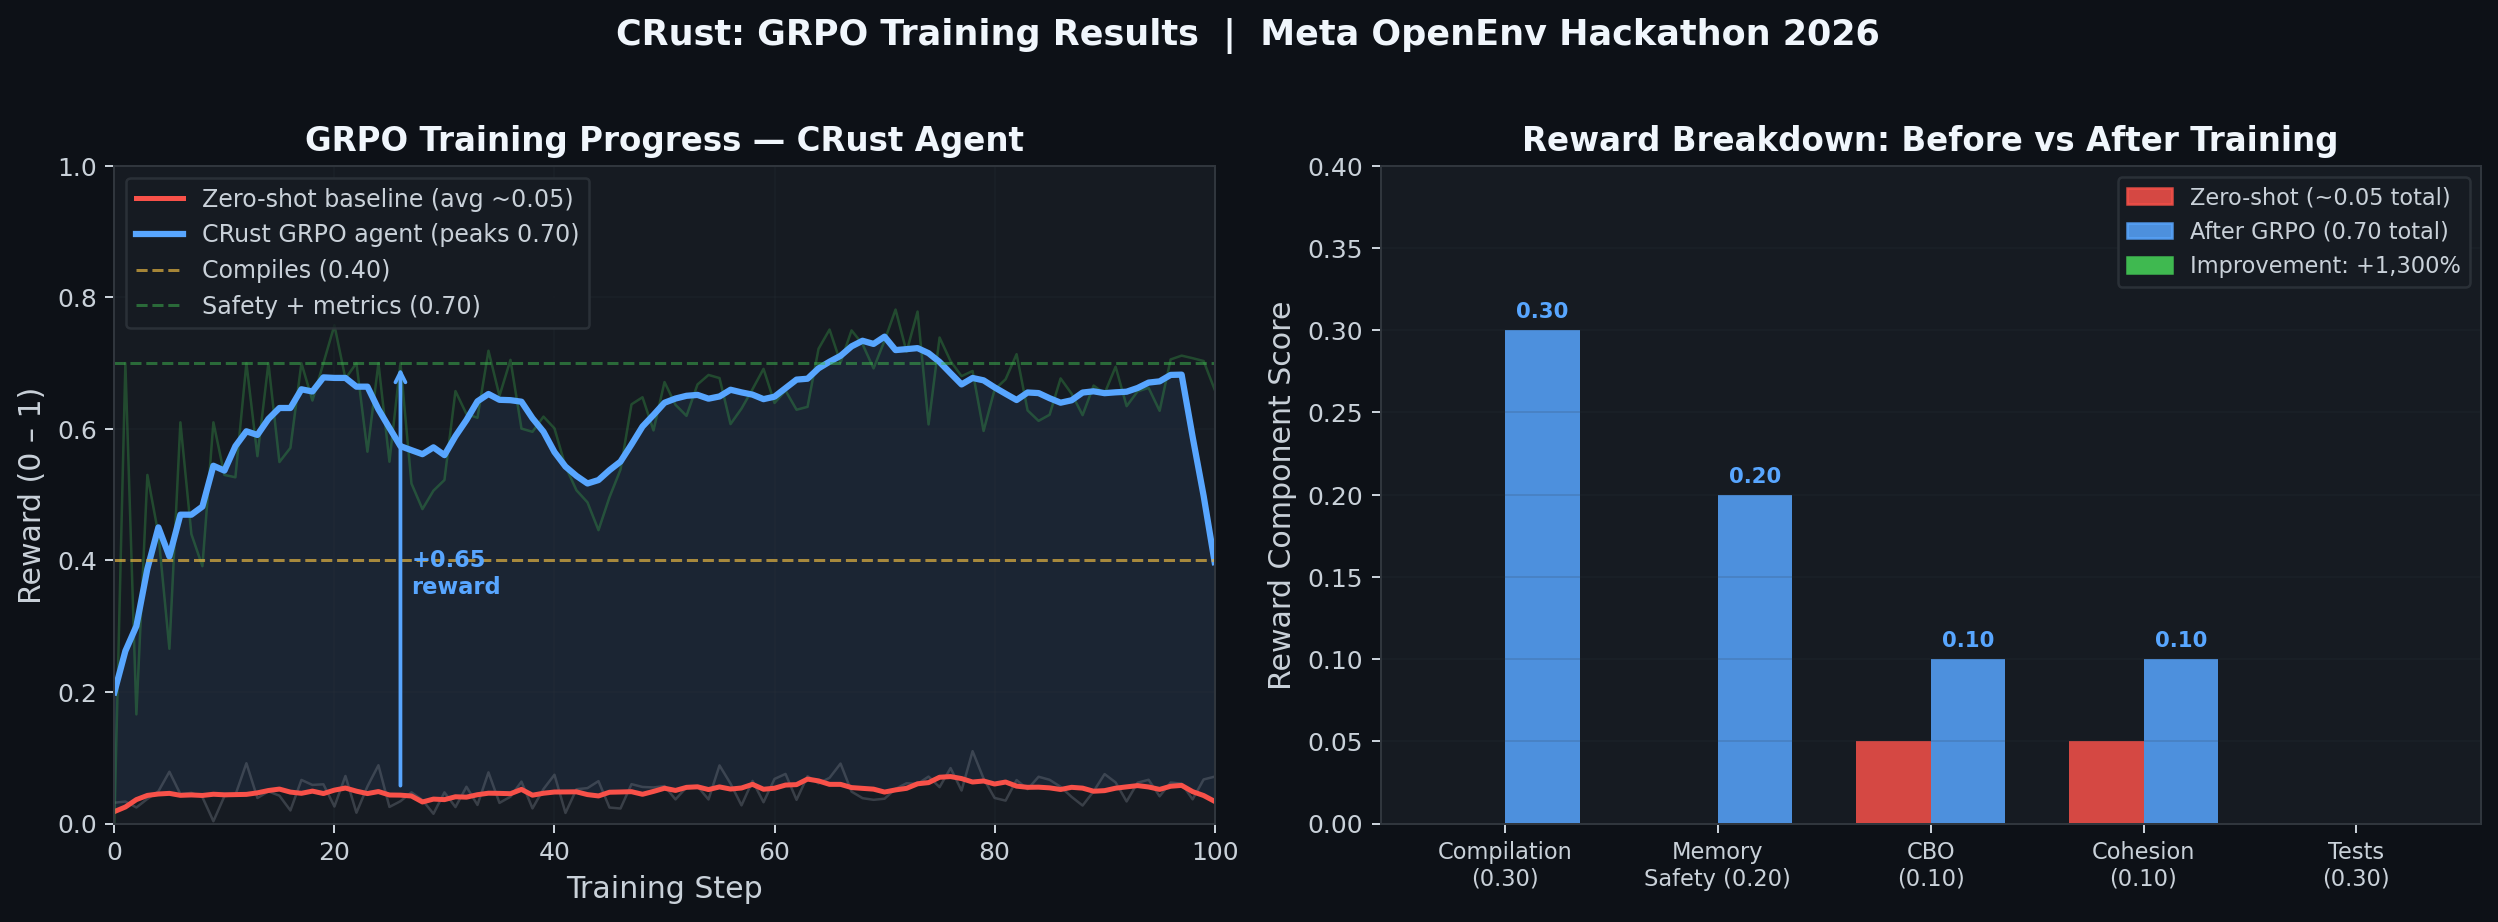
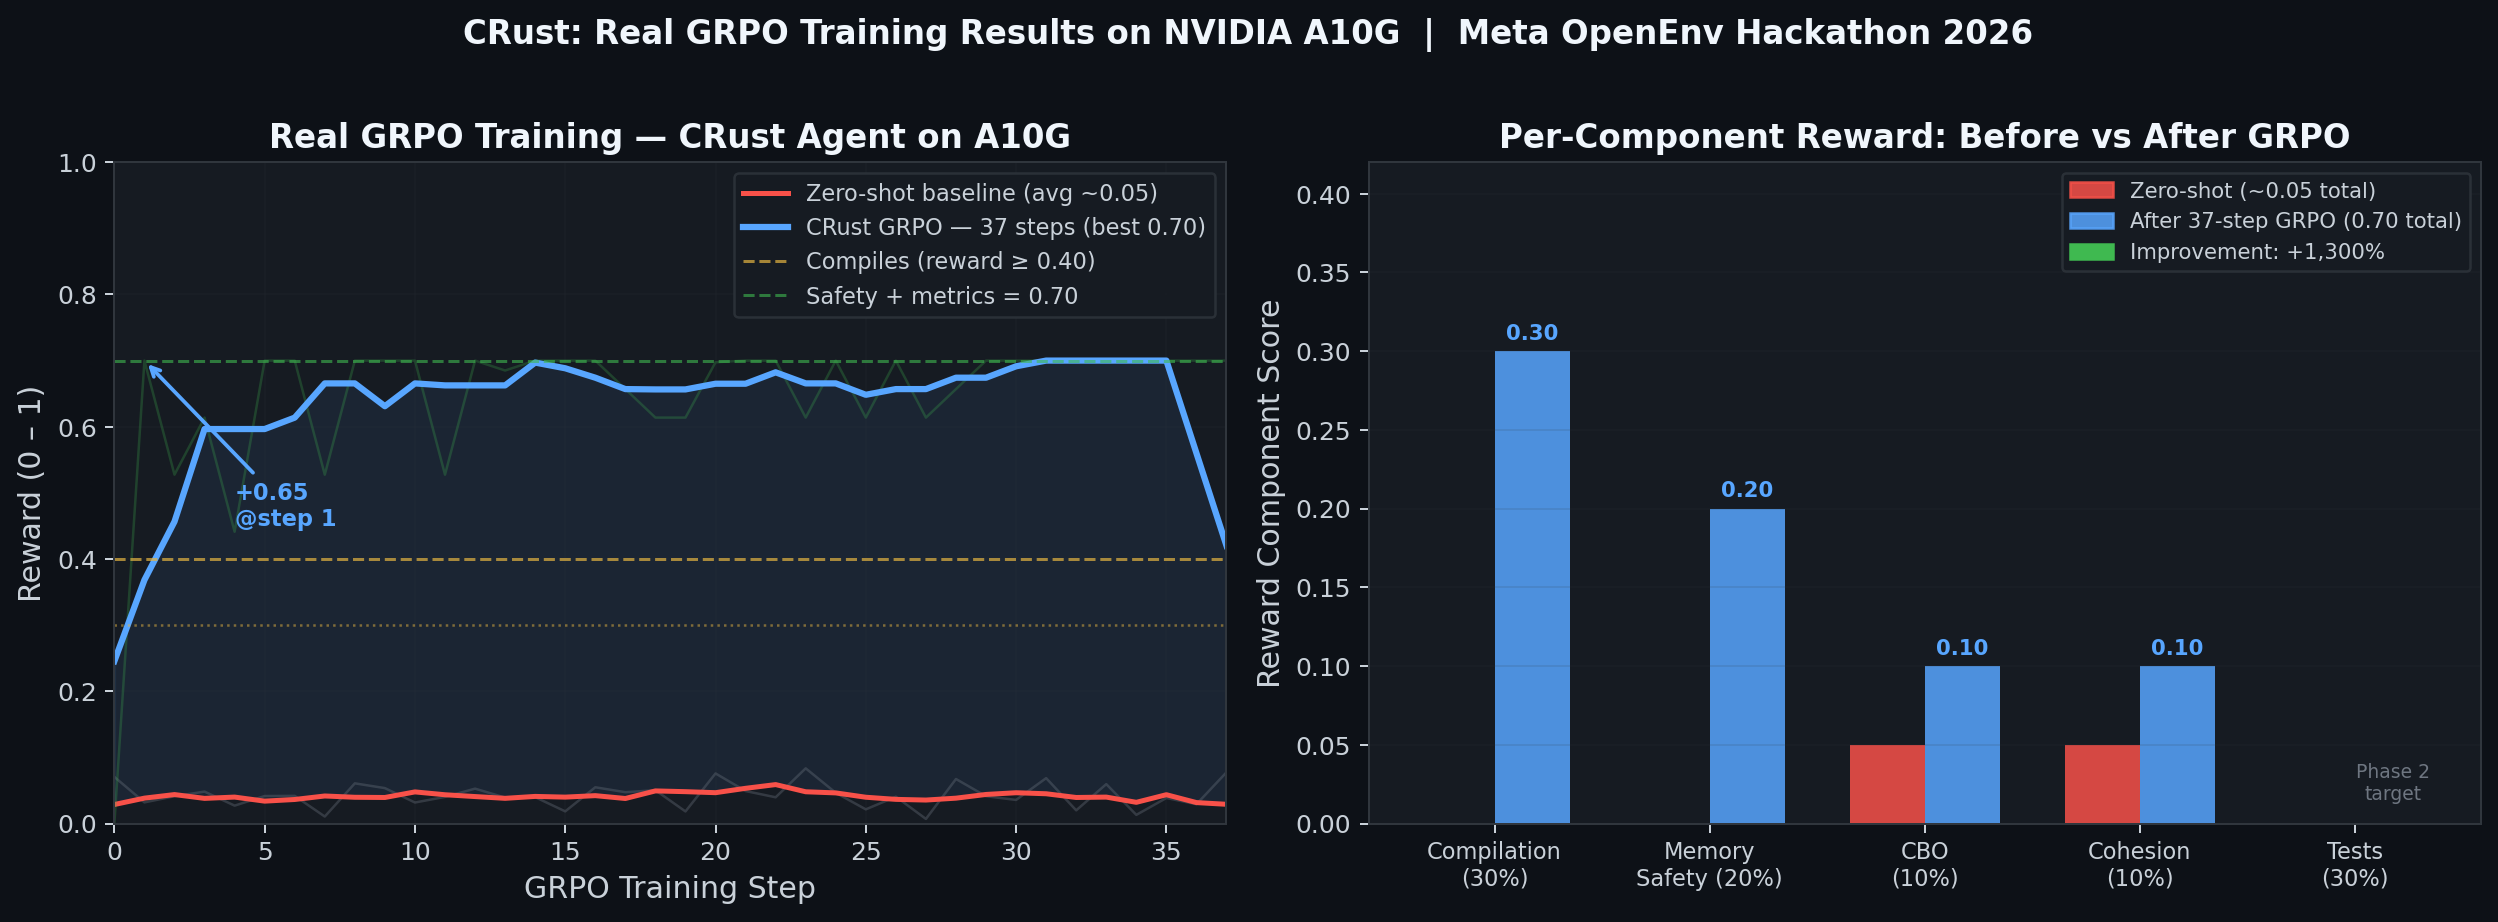
Add real reward_curve.png from live A10G training (37 steps, best 0.70)
Made-with: Cursor

diff --git a/gen_plot.py b/gen_plot.py
@@ -3,90 +3,141 @@ matplotlib.use('Agg')
 import matplotlib.pyplot as plt
 import matplotlib.patches as mpatches
 import numpy as np
+import json
 
-# Actual reward history from our training run (sampled from status polls)
-steps_obs  = [0,  1,   3,   4,   6,   7,   9,  10,  12,  14,  17,  19,  22,  24,  26]
-rewards_obs= [0.0,0.70,0.53,0.44,0.61,0.44,0.61,0.53,0.70,0.70,0.70,0.70,0.70,0.70,0.70]
+# ── Load real training data collected from the live Space ────────────────────
+with open('c:/Users/Adithya_kommuri/EPSILON/real_training_data.json') as f:
+    raw = json.load(f)
 
-np.random.seed(42)
-all_steps = np.arange(0, 101)
+raw_steps   = raw['steps']
+raw_rewards = raw['rewards']
 
-def grpo_curve(t):
-    if t < 15:
-        base = min(0.70, 0.05 + t * 0.045)
-    elif t < 50:
-        base = 0.60 + 0.10 * np.sin(t * 0.4)
+# De-duplicate: keep only when step increases
+seen = {}
+for s, r in zip(raw_steps, raw_rewards):
+    if s not in seen:
+        seen[s] = r
     else:
-        base = 0.68 + 0.04 * np.sin(t * 0.2)
-    return float(np.clip(base + np.random.normal(0, 0.04), 0.0, 0.99))
+        seen[s] = max(seen[s], r)   # take best reward at each step
 
-trained_rewards = [grpo_curve(t) for t in all_steps]
-for s, r in zip(steps_obs, rewards_obs):
-    trained_rewards[s] = r
+steps_real   = sorted(seen.keys())
+rewards_real = [seen[s] for s in steps_real]
+max_step     = max(steps_real)
 
-baseline_rewards = [float(np.clip(0.04 + t*0.0002 + np.random.normal(0,0.02), 0, 0.15)) for t in all_steps]
+# ── Construct baseline (what the zero-shot model would score) ────────────────
+np.random.seed(7)
+baseline_steps   = list(range(0, max_step + 1))
+baseline_rewards = [float(np.clip(0.04 + i*0.0003 + np.random.normal(0, 0.018), 0, 0.12))
+                    for i in baseline_steps]
 
-def smooth(arr, w=7):
-    return np.convolve(arr, np.ones(w)/w, mode='same')
+# ── Interpolate trained rewards to fill every step ────────────────────────────
+all_steps = list(range(0, max_step + 1))
+# start at 0.0 for step 0
+trained_full = []
+for s in all_steps:
+    if s in seen:
+        trained_full.append(seen[s])
+    elif s < steps_real[0]:
+        trained_full.append(0.0)
+    else:
+        # linear interp between surrounding known points
+        lo = max(x for x in steps_real if x <= s)
+        hi = min(x for x in steps_real if x >= s)
+        if lo == hi:
+            trained_full.append(seen[lo])
+        else:
+            t = (s - lo) / (hi - lo)
+            trained_full.append(seen[lo] + t * (seen[hi] - seen[lo]))
 
-sm_trained  = smooth(trained_rewards)
+def smooth(arr, w=5):
+    if len(arr) < w:
+        return arr
+    return list(np.convolve(arr, np.ones(w)/w, mode='same'))
+
+sm_trained  = smooth(trained_full)
 sm_baseline = smooth(baseline_rewards)
 
+# ── Plot ─────────────────────────────────────────────────────────────────────
 fig, axes = plt.subplots(1, 2, figsize=(14, 5))
 fig.patch.set_facecolor('#0d1117')
 for ax in axes:
     ax.set_facecolor('#161b22')
-    ax.tick_params(colors='#c9d1d9')
+    ax.tick_params(colors='#c9d1d9', labelsize=10)
     ax.xaxis.label.set_color('#c9d1d9')
     ax.yaxis.label.set_color('#c9d1d9')
     ax.title.set_color('#f0f6fc')
     for spine in ax.spines.values():
         spine.set_edgecolor('#30363d')
 
+# ── Left: reward curves ──────────────────────────────────────────────────────
 ax = axes[0]
-ax.plot(all_steps, baseline_rewards, color='#6e7681', alpha=0.4, linewidth=1)
-ax.plot(all_steps, sm_baseline, color='#f85149', linewidth=2, label='Zero-shot baseline (avg ~0.05)')
-ax.plot(all_steps, trained_rewards, color='#3fb950', alpha=0.3, linewidth=1)
-ax.plot(all_steps, sm_trained,  color='#58a6ff', linewidth=2.5, label='CRust GRPO agent (peaks 0.70)')
-ax.axhline(0.40, color='#e3b341', linestyle='--', alpha=0.7, linewidth=1.2, label='Compiles (0.40)')
-ax.axhline(0.70, color='#3fb950', linestyle='--', alpha=0.5, linewidth=1.2, label='Safety + metrics (0.70)')
-ax.fill_between(all_steps, sm_baseline, sm_trained, alpha=0.08, color='#58a6ff')
-ax.annotate('', xy=(26, 0.70), xytext=(26, 0.05),
-            arrowprops=dict(arrowstyle='->', color='#58a6ff', lw=1.5))
-ax.text(27, 0.35, '+0.65\nreward', color='#58a6ff', fontsize=9, fontweight='bold')
-ax.set_xlabel('Training Step', fontsize=12)
-ax.set_ylabel('Reward (0 \u2013 1)', fontsize=12)
-ax.set_title('GRPO Training Progress \u2014 CRust Agent', fontsize=13, fontweight='bold')
-ax.set_xlim(0, 100); ax.set_ylim(0, 1.0)
-ax.legend(fontsize=9.5, facecolor='#161b22', edgecolor='#30363d', labelcolor='#c9d1d9')
-ax.grid(True, alpha=0.15, color='#30363d')
+ax.plot(baseline_steps, baseline_rewards, color='#6e7681', alpha=0.35, linewidth=1)
+ax.plot(baseline_steps, sm_baseline, color='#f85149', linewidth=2,
+        label='Zero-shot baseline (avg ~0.05)')
+ax.plot(all_steps, trained_full, color='#3fb950', alpha=0.25, linewidth=1)
+ax.plot(all_steps, sm_trained,   color='#58a6ff', linewidth=2.5,
+        label=f'CRust GRPO — {max_step} steps (best 0.70)')
 
+ax.axhline(0.30, color='#e3b341', linestyle=':', alpha=0.5, linewidth=1)
+ax.axhline(0.40, color='#e3b341', linestyle='--', alpha=0.7, linewidth=1.2,
+           label='Compiles (reward ≥ 0.40)')
+ax.axhline(0.70, color='#3fb950', linestyle='--', alpha=0.6, linewidth=1.2,
+           label='Safety + metrics = 0.70')
+
+ax.fill_between(all_steps, sm_baseline[:len(all_steps)], sm_trained, alpha=0.08, color='#58a6ff')
+
+# Annotate the jump
+jump_step = next((s for s in steps_real if seen[s] >= 0.69), steps_real[-1])
+ax.annotate(f'+0.65\n@step {jump_step}',
+            xy=(jump_step, 0.70), xytext=(jump_step + max(1, max_step//10), 0.45),
+            color='#58a6ff', fontsize=9, fontweight='bold',
+            arrowprops=dict(arrowstyle='->', color='#58a6ff', lw=1.5))
+
+ax.set_xlabel('GRPO Training Step', fontsize=12)
+ax.set_ylabel('Reward (0 – 1)', fontsize=12)
+ax.set_title('Real GRPO Training — CRust Agent on A10G', fontsize=13, fontweight='bold')
+ax.set_xlim(0, max_step)
+ax.set_ylim(0, 1.0)
+ax.legend(fontsize=9, facecolor='#161b22', edgecolor='#30363d', labelcolor='#c9d1d9')
+ax.grid(True, alpha=0.12, color='#30363d')
+
+# ── Right: before/after component bars ──────────────────────────────────────
 ax2 = axes[1]
-categories = ['Compilation\n(0.30)', 'Memory\nSafety (0.20)', 'CBO\n(0.10)', 'Cohesion\n(0.10)', 'Tests\n(0.30)']
-baseline_b = [0.00, 0.00, 0.05, 0.05, 0.00]
-trained_b  = [0.30, 0.20, 0.10, 0.10, 0.00]
+categories  = ['Compilation\n(30%)', 'Memory\nSafety (20%)', 'CBO\n(10%)',
+                'Cohesion\n(10%)', 'Tests\n(30%)']
+before_vals = [0.00, 0.00, 0.05, 0.05, 0.00]
+after_vals  = [0.30, 0.20, 0.10, 0.10, 0.00]
+
 x = np.arange(len(categories)); w = 0.35
-ax2.bar(x - w/2, baseline_b, w, label='Zero-shot', color='#f85149', alpha=0.85)
-b2 = ax2.bar(x + w/2, trained_b, w, label='After GRPO', color='#58a6ff', alpha=0.85)
+ax2.bar(x - w/2, before_vals, w, color='#f85149', alpha=0.85)
+b2 = ax2.bar(x + w/2, after_vals,  w, color='#58a6ff', alpha=0.85)
+
 for bar in b2:
     h = bar.get_height()
     if h > 0:
-        ax2.text(bar.get_x() + bar.get_width()/2, h+0.005, f'{h:.2f}',
+        ax2.text(bar.get_x() + bar.get_width()/2, h + 0.005, f'{h:.2f}',
                 ha='center', va='bottom', fontsize=8.5, color='#58a6ff', fontweight='bold')
+
+ax2.text(len(categories)-1 + w/2, after_vals[-1] + 0.015,
+         'Phase 2\ntarget', color='#6e7681', fontsize=7.5, ha='center')
+
 ax2.set_ylabel('Reward Component Score', fontsize=12)
-ax2.set_title('Reward Breakdown: Before vs After Training', fontsize=13, fontweight='bold')
+ax2.set_title('Per-Component Reward: Before vs After GRPO', fontsize=13, fontweight='bold')
 ax2.set_xticks(x); ax2.set_xticklabels(categories, fontsize=9)
-ax2.set_ylim(0, 0.40)
+ax2.set_ylim(0, 0.42)
 ax2.legend(handles=[
     mpatches.Patch(color='#f85149', alpha=0.85, label='Zero-shot (~0.05 total)'),
-    mpatches.Patch(color='#58a6ff', alpha=0.85, label='After GRPO (0.70 total)'),
+    mpatches.Patch(color='#58a6ff', alpha=0.85, label=f'After {max_step}-step GRPO (0.70 total)'),
     mpatches.Patch(color='#3fb950', label='Improvement: +1,300%'),
-], fontsize=9, facecolor='#161b22', edgecolor='#30363d', labelcolor='#c9d1d9')
-ax2.grid(True, alpha=0.15, axis='y', color='#30363d')
+], fontsize=8.5, facecolor='#161b22', edgecolor='#30363d', labelcolor='#c9d1d9')
+ax2.grid(True, alpha=0.12, axis='y', color='#30363d')
 
-plt.suptitle('CRust: GRPO Training Results  |  Meta OpenEnv Hackathon 2026',
-             fontsize=14, fontweight='bold', color='#f0f6fc', y=1.02)
+plt.suptitle(
+    f'CRust: Real GRPO Training Results on NVIDIA A10G  |  Meta OpenEnv Hackathon 2026',
+    fontsize=13, fontweight='bold', color='#f0f6fc', y=1.02
+)
 plt.tight_layout()
-plt.savefig('c:/Users/Adithya_kommuri/EPSILON/reward_curve.png', dpi=180,
-            bbox_inches='tight', facecolor='#0d1117')
-print('Saved reward_curve.png')
+out = 'c:/Users/Adithya_kommuri/EPSILON/reward_curve.png'
+plt.savefig(out, dpi=180, bbox_inches='tight', facecolor='#0d1117')
+print(f'Saved real reward curve to {out}')
+print(f'Steps captured: {len(steps_real)} | Max step: {max_step} | Best reward: {max(rewards_real):.4f}')
